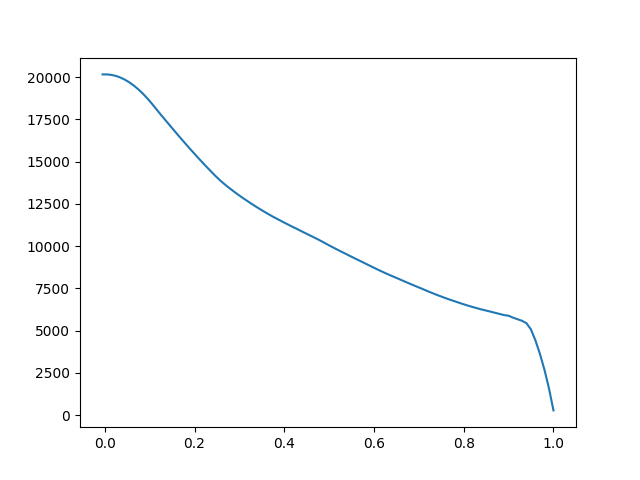
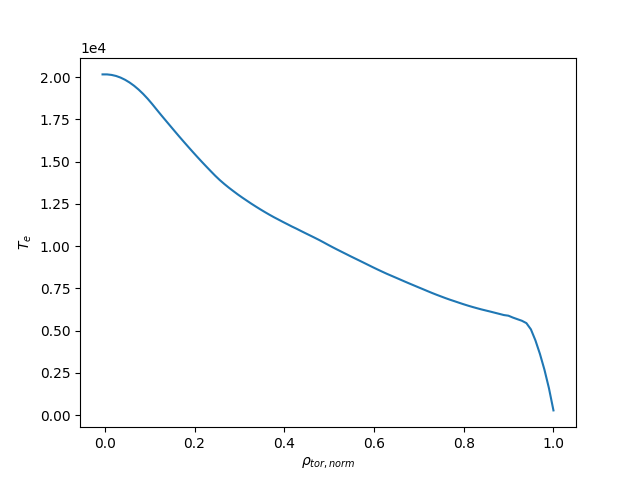
Adjust plot example and plot

diff --git a/docs/source/courses/basic/al4_snippets/plot_core_profiles_te_timeslice.py b/docs/source/courses/basic/al4_snippets/plot_core_profiles_te_timeslice.py
@@ -20,6 +20,9 @@ te = input.partial_get("core_profiles", "profiles_1d(261)/electrons/temperature"
 rho = input.partial_get("core_profiles", "profiles_1d(261)/grid/rho_tor_norm")
 
 # Plot the figure
-plt.figure()
-plt.plot(rho, te)
+fig, ax = plt.subplots()
+ax.plot(rho, te)
+ax.set_ylabel(r"$T_e$")
+ax.set_xlabel(r"$\rho_{tor, norm}$")
+ax.ticklabel_format(axis="y", scilimits=(-1, 1))
 plt.show()

diff --git a/docs/source/courses/basic/analyze.rst b/docs/source/courses/basic/analyze.rst
@@ -69,7 +69,7 @@ array, which is not necessarily the case
 .. tabs::
     .. tab:: Exercise
         Use ``partial_get`` to get the ``core_profiles`` :math:`T_e` and
-        :math:`\rho_{tor_{norm}}` at ``index=261``
+        :math:`\rho_{tor, norm}` at ``index=261``
     .. tab:: AL4
         .. literalinclude:: al4_snippets/read_core_profiles_te_timeslice.py
 
@@ -82,7 +82,7 @@ Now we can plot the :math:`T_e` profile obtained above:
 .. tabs::
     .. tab:: Exercise
         Using ``matplotlib``, create a plot of :math:`T_e` on the y-axis and
-        :math:`\rho_{tor_{norm}}` on the x-axis.
+        :math:`\rho_{tor, norm}` on the x-axis.
     .. tab:: AL4
         .. literalinclude:: al4_snippets/plot_core_profiles_te_timeslice.py
 
@@ -93,4 +93,4 @@ Now we can plot the :math:`T_e` profile obtained above:
     :scale: 100%
     :alt: matplotlib plot of electron temperature vs normalized toroidal flux coordinate
 
-    A plot of :math:`T_e` vs :math:`\rho_{tor_{norm}}`
+    A plot of :math:`T_e` vs :math:`\rho_{tor, norm}`
